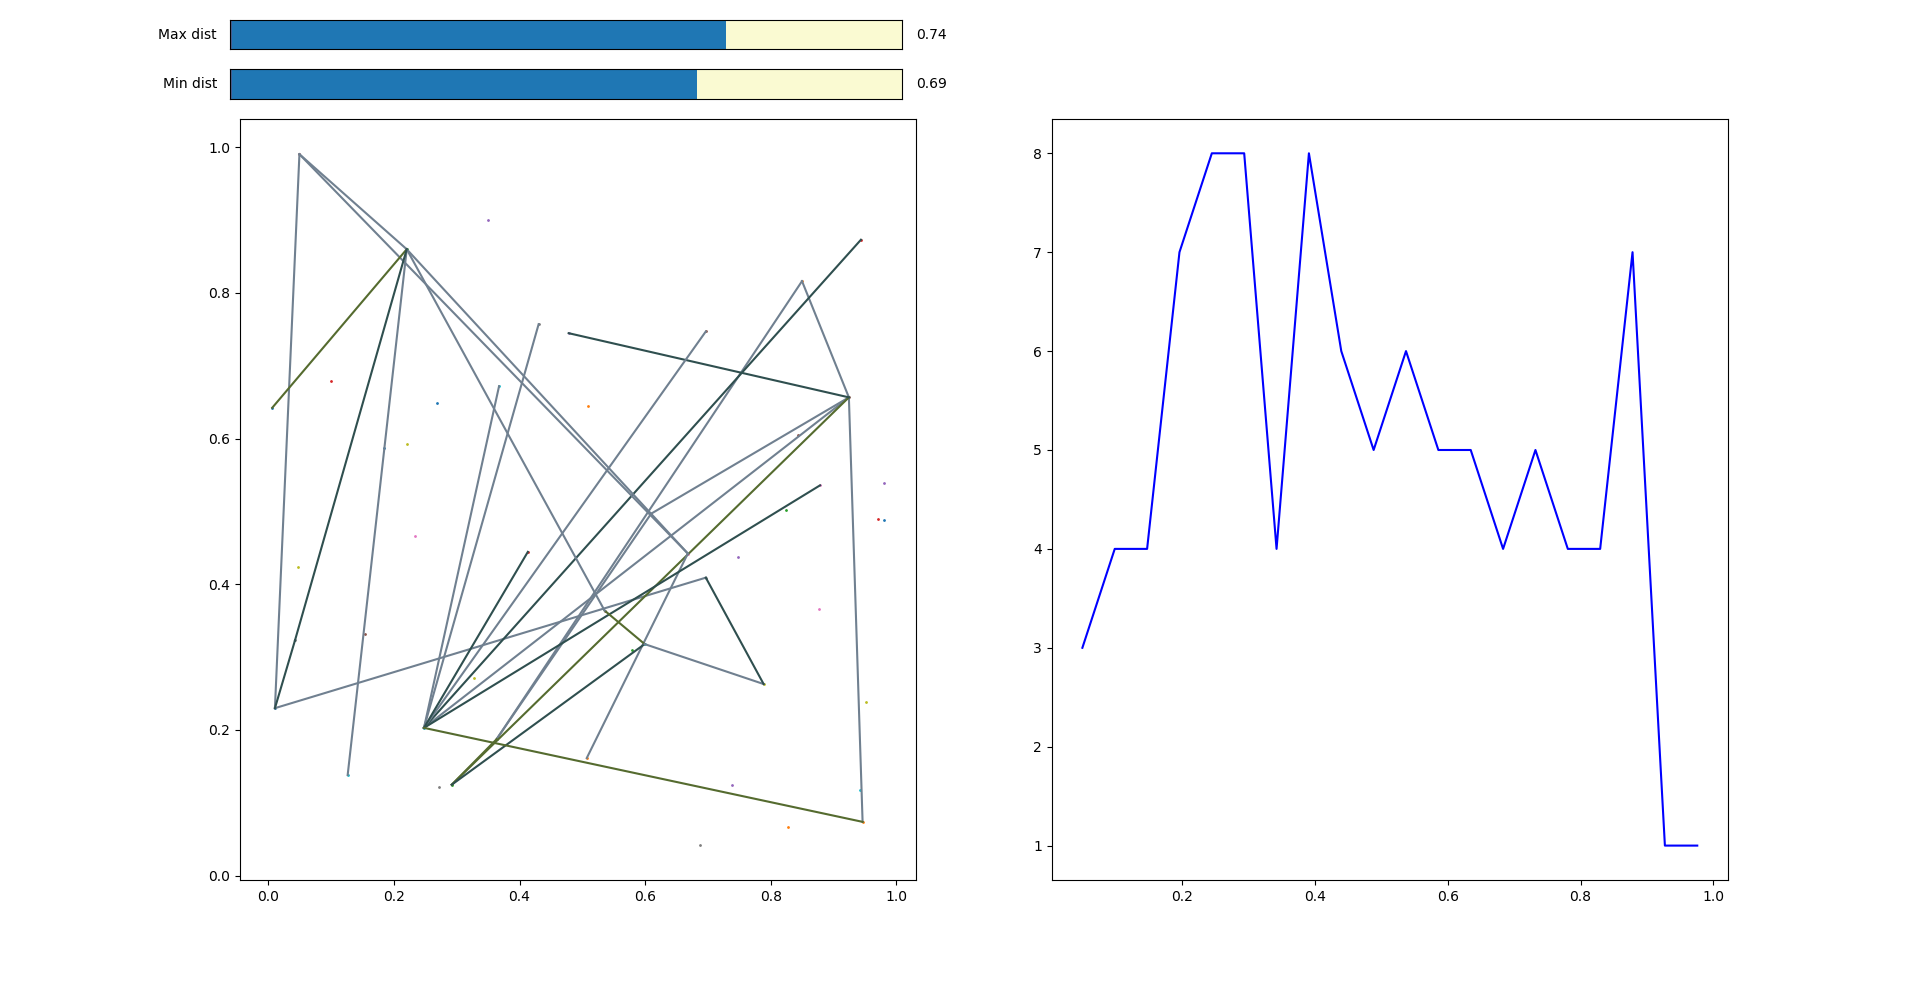
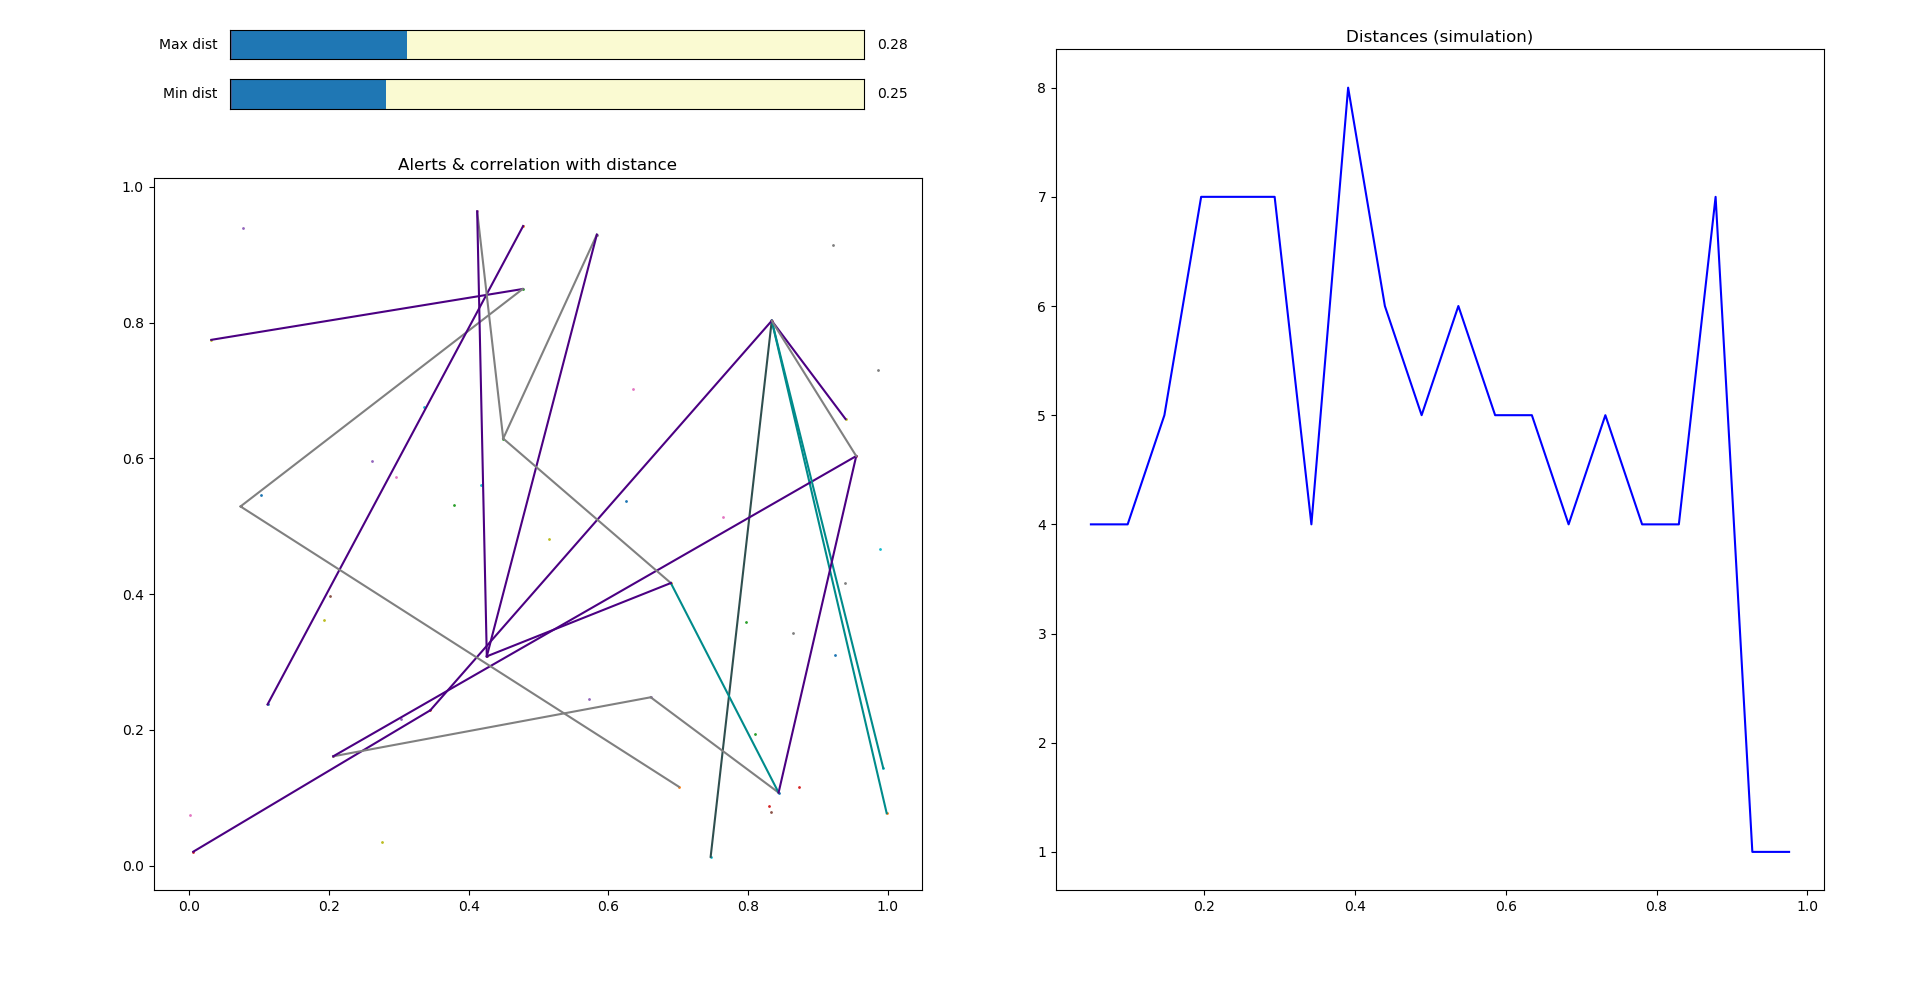
README.md reshape axes of the props.py application

diff --git a/Properties/props.py b/Properties/props.py
@@ -7,7 +7,7 @@ import matplotlib.colors as mcolors
 # from mpl_toolkits.mplot3d import axes3d
 from typing import List, Tuple, Optional
 
-N = 200
+N = 50
 P = 20
 
 randx = lambda: np.random.random()
@@ -132,6 +132,7 @@ class Zones(object):
         x = bins[:-1] + 0.5 * (bins[1] - bins[0])
         # x = bins[:-1]
         # mean = np.sum(x * y) / a.size
+        axe.set(title="Distances (simulation)")
         axe.plot(x, y, 'b-', label='data')
         self.all_distances()
 
@@ -262,14 +263,15 @@ class UpdateMinSlider(UpdateSlider):
 
 class Graphics(object):
     def __init__(self):
-        # self.fig, self.axe2 = plt.subplots(1, 1)
-        self.fig, (self.axe1, self.axe2) = plt.subplots(1, 2)
+        self.fig = plt.figure()
+        self.axe1 = plt.axes([0.08,0.1,0.4,0.72])
+        self.axe2 = plt.axes([0.55,0.1,0.4,0.85])
         # self.fig, (self.axe1, self.axe2) = plt.subplots(1, 2, subplot_kw={'projection': '3d', 'aspect': 'equal'})
         self.texts = []
         self.fig.canvas.mpl_connect('motion_notify_event', self.onclick)
         axcolor = 'lightgoldenrodyellow'
-        self.slider_max_axe = plt.axes([0.12, 0.95, 0.35, 0.03], facecolor=axcolor)
-        self.slider_min_axe = plt.axes([0.12, 0.90, 0.35, 0.03], facecolor=axcolor)
+        self.slider_max_axe = plt.axes([0.12, 0.94, 0.33, 0.03], facecolor=axcolor)
+        self.slider_min_axe = plt.axes([0.12, 0.89, 0.33, 0.03], facecolor=axcolor)
 
         self.slider_max = Slider(self.slider_max_axe, 'Max dist', 0.0, 1.0, valinit=0)
         self.slider_min = Slider(self.slider_min_axe, 'Min dist', 0.0, 1.0, valinit=0)
@@ -294,6 +296,7 @@ class Graphics(object):
             alert = Alerts[_alert_id]
             _alert_x = alert.x
             _alert_y = alert.y
+            self.axe1.set(title="Alerts & correlation with distance")
             self.axe1.scatter(_alert_x, _alert_y, s=1)
 
     def onclick(self, event) -> None:

diff --git a/README.md b/README.md
@@ -478,3 +478,8 @@ An graphical application shows:
 - one color per distance value
 
 ![properties](Properties/application.png)
+
+see:
+- https://spark.apache.org/docs/2.2.0/mllib-dimensionality-reduction.html
+
+
